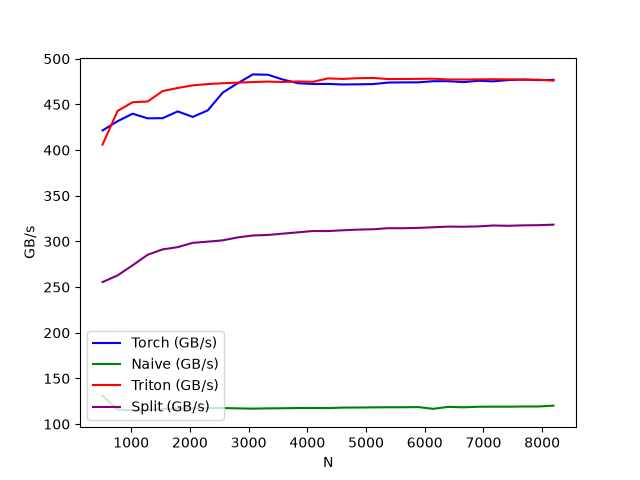
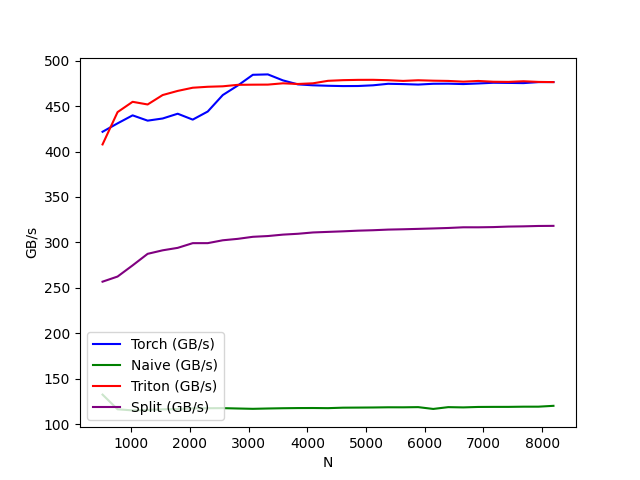
docs(eval): post-refactor GSM8K re-test and refreshed softmax artifacts
Record the three-tier kernels refactor verification in eval_models.md:
Qwen2.5-1.5B-Instruct GSM8K scores an identical 61.50% before and after
the refactor in the same environment (the 1.5-point gap to the historical
63.00% is a torch/triton version effect, within the 200-question subset
noise), and Qwen3-0.6B / Qwen3-0.6B-FP8 golden token parity holds byte
for byte. The softmax benchmark artifacts carry the re-measured numbers.

diff --git a/docs/eval_models.md b/docs/eval_models.md
@@ -28,6 +28,13 @@
 
 **无效率全程为 0**：每条 completion 都能解析出数字。这一列是判断"模型答错了"还是 "评测根本没看到答案"的分界 —— 如果它显著大于 0，上面的准确率就不再是模型的性质，而是 `max_gen_len` 或提示词格式的问题。
 
+### 复测记录：v0.9 kernels 三层重构（2026-08）
+
+kernels 目录重组为 ops/dispatcher/backend 三层后，在 torch 2.11.0+cu129 / triton 3.6.0 / Python 3.12 环境下复测：
+
+- **Qwen2.5-1.5B-Instruct / 200 题：61.50%，无效率 0，通过**（阈值 0.63±0.05）；同一环境在重构前的 main 分支上复测得到**完全相同的 61.50%**——重构对生成结果零影响。与上表 63.00% 的 1.5 点差来自环境（历史数字测于 torch 2.13/triton 3.7/Python 3.13），在 200 题子集 ±3.4 点的统计噪声内。
+- 同一分支上 **Qwen3-0.6B（bf16）与 Qwen3-0.6B-FP8 的 golden token parity 全部通过**：eager 与 CUDA graph 重放、与各自入库基线字节级一致（4 种 batch 布局 × repetition penalty 全组合），这是比分数更强的逐 token 证据。
+
 ## 复现
 
 ```bash
